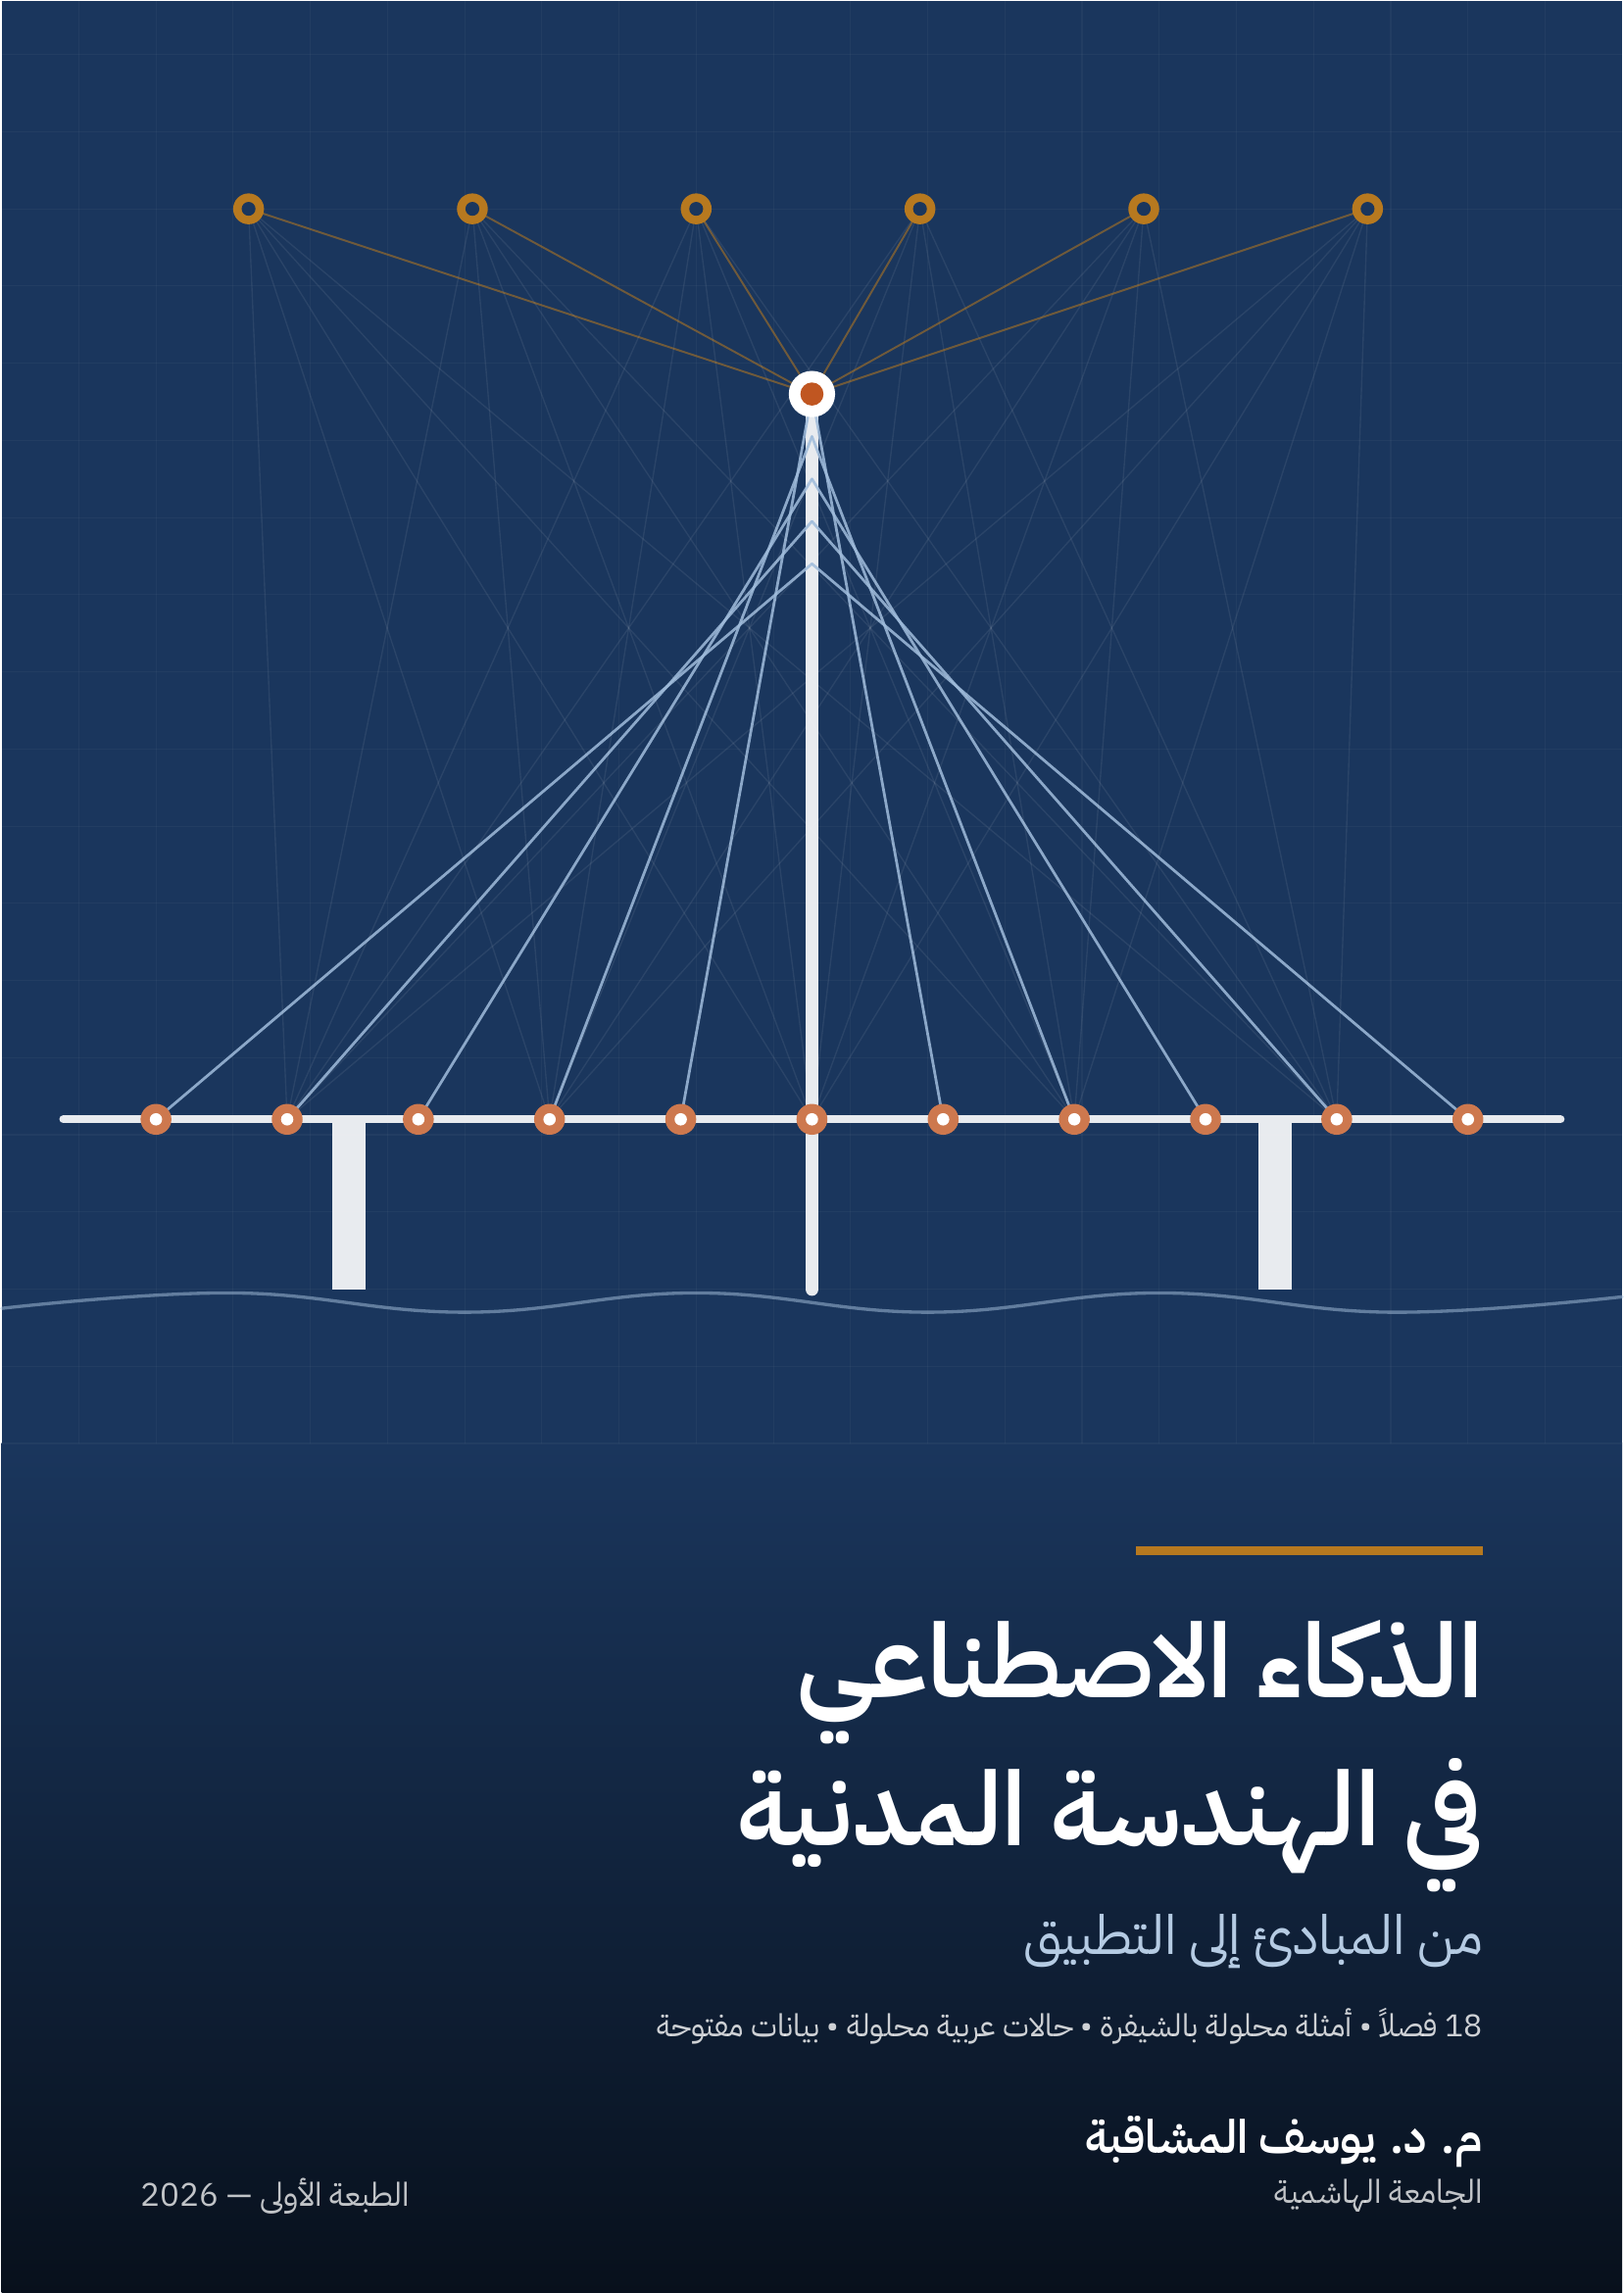
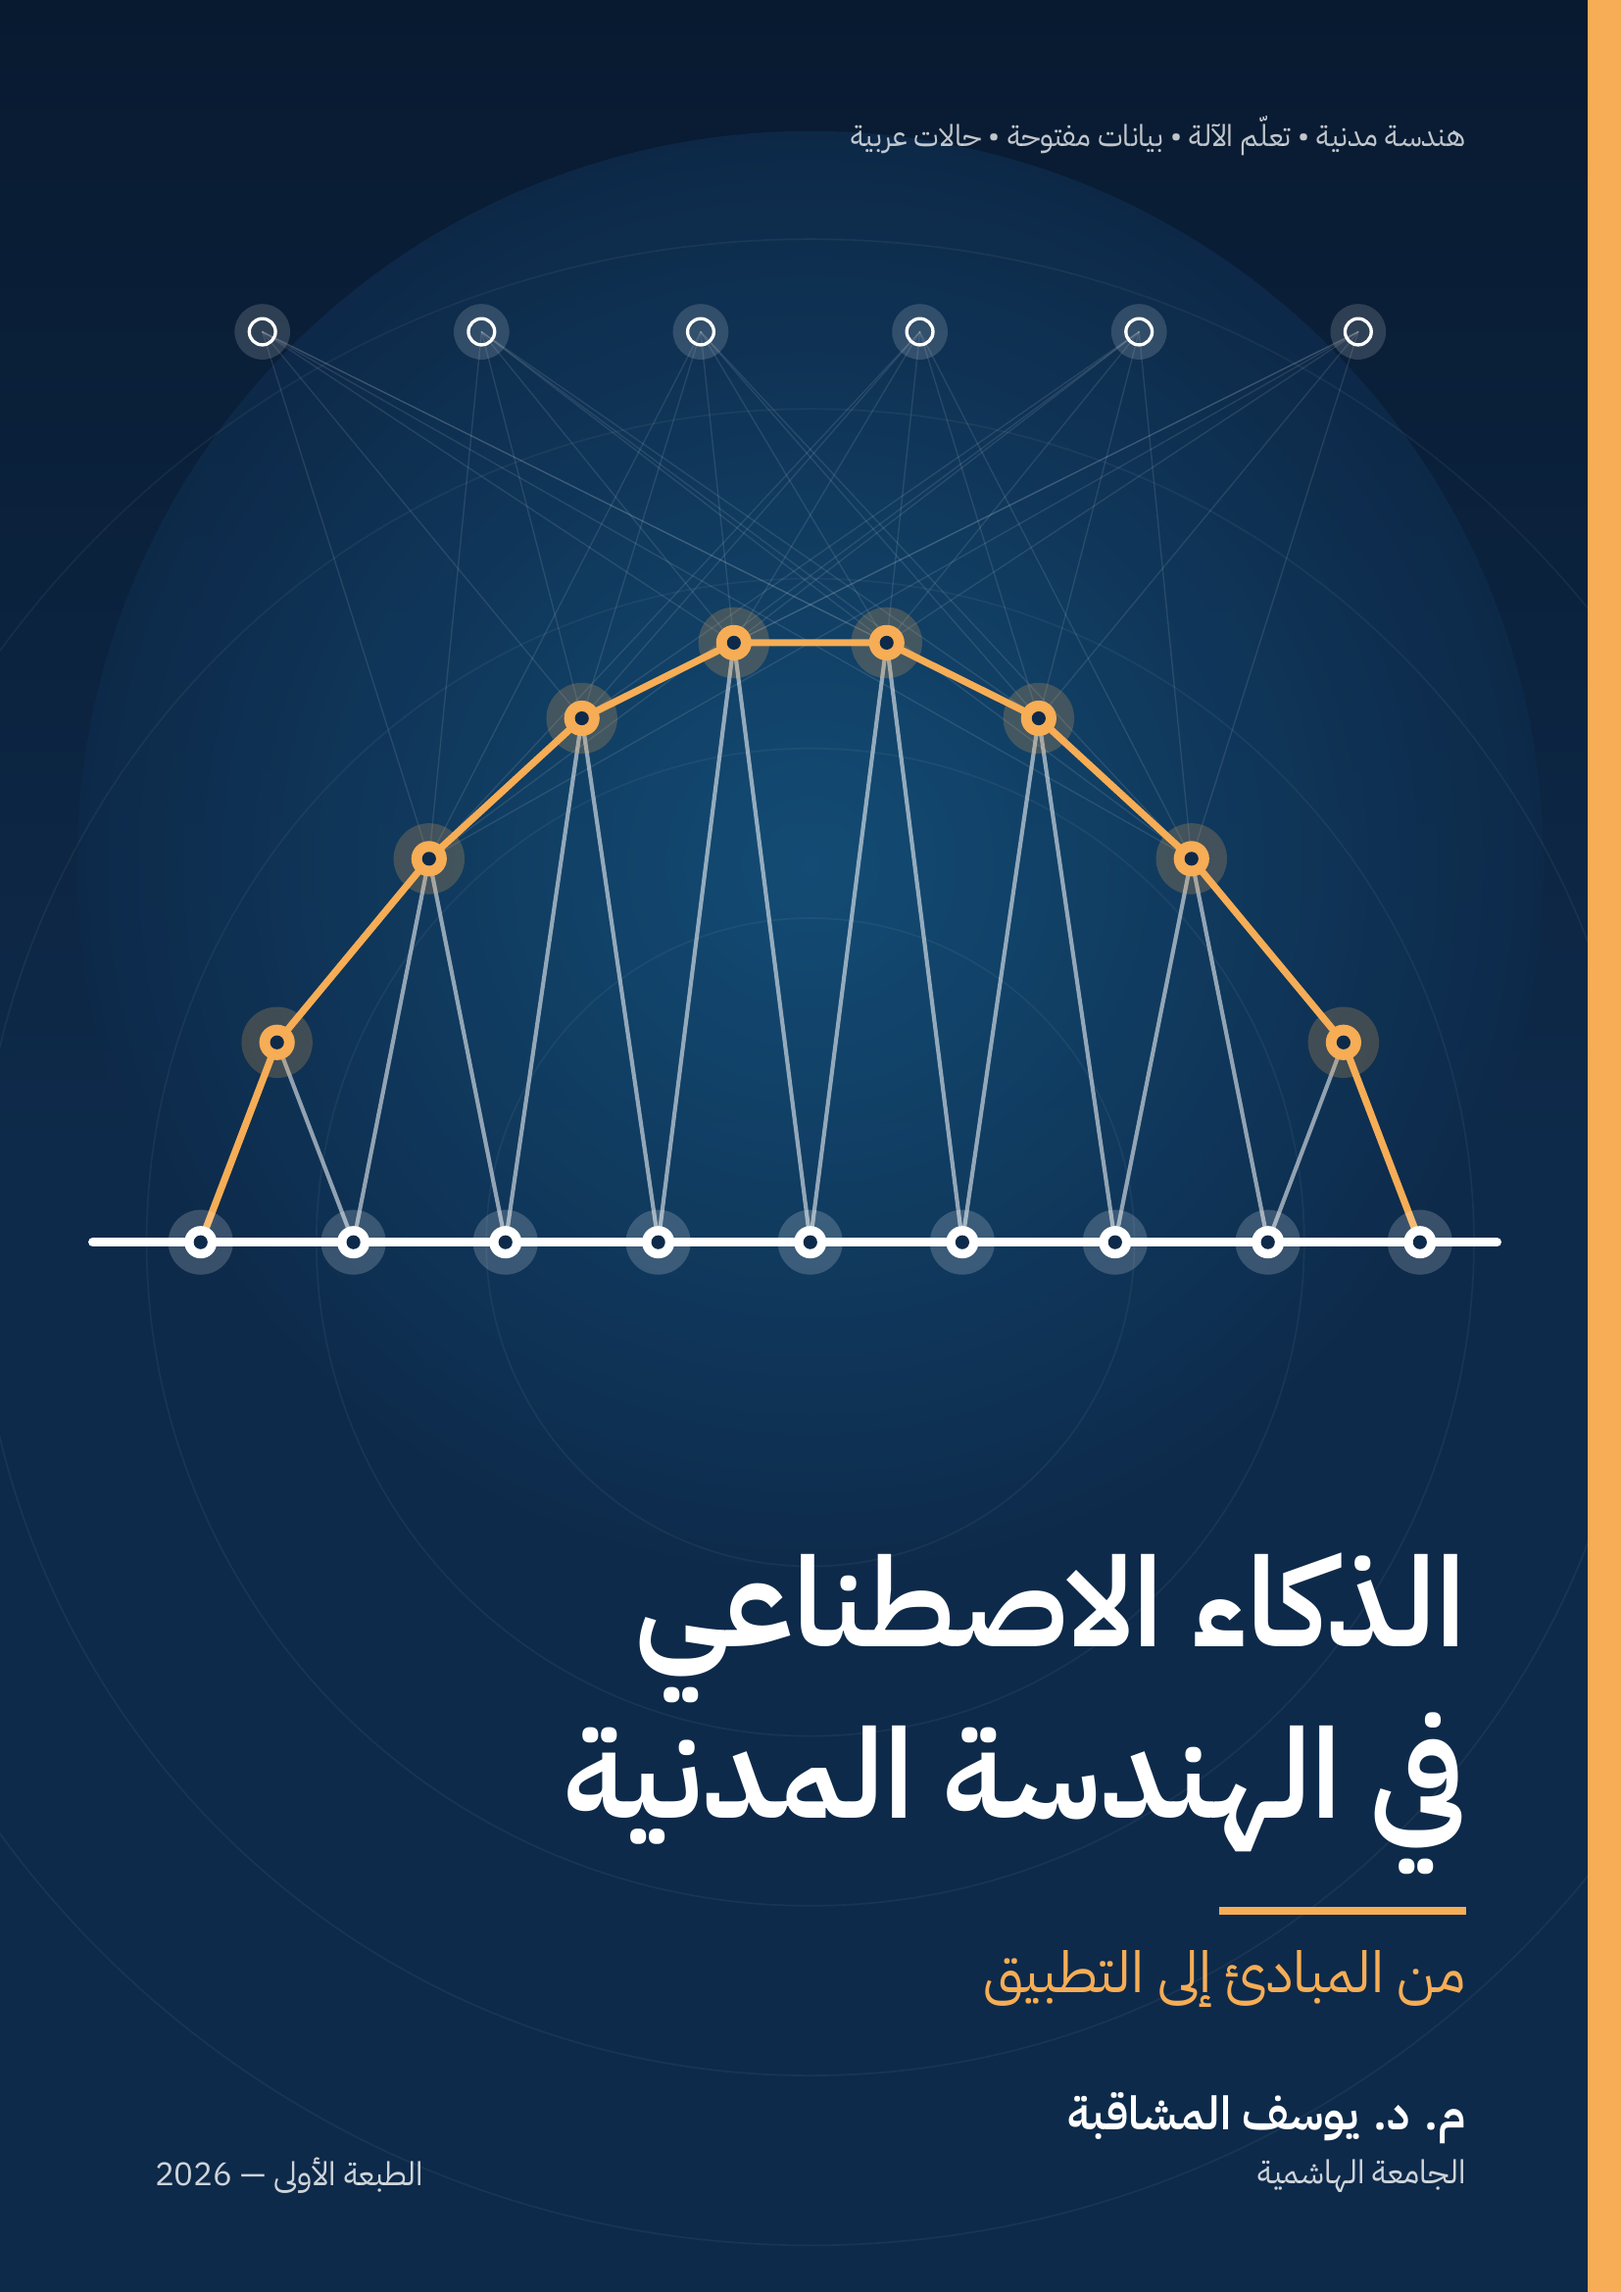
New cover design and light alternative; TikZ source

diff --git a/code/design/tikz/cover2.py b/code/design/tikz/cover2.py
@@ -1,0 +1,69 @@
+# -*- coding: utf-8 -*-
+"""Modern front covers (A4 proportion): dark 'network arch' and light 'dot matrix' variants."""
+from tk import *
+import tk, math
+tk.PRE = tk.PRE.replace("border=7pt", "border=0pt")
+tk.COL.update(ink0="081A30", deep="0E2A4A", sea="14507A", amber="F6AD55", mist="F4F7FA", steel="A0AEC0")
+W, H = 21.0, 29.7
+def arch_nodes(x0=2.6, x1=18.4, yb=13.6, rise=6.6, n=9):
+    bot = [(x0 + i*(x1-x0)/(n-1), yb) for i in range(n)]
+    top = []
+    for i in range(n-1):
+        xm = (bot[i][0] + bot[i+1][0])/2; t = (xm - x0)/(x1 - x0)
+        top.append((xm, yb + 1.3 + rise*math.sin(math.pi*t)))
+    return bot, top
+def titles(f, col_title, col_sub, col_txt, y0=8.6):
+    xr = W - 2.0
+    f.add(r"\node[anchor=east,text=%s,font=\fontsize{46}{56}\selectfont\bfseries,inner sep=0pt] at (%.2f,%.2f) {%s};" % (col_title, xr, y0, R("الذكاء الاصطناعي")))
+    f.add(r"\node[anchor=east,text=%s,font=\fontsize{46}{56}\selectfont\bfseries,inner sep=0pt] at (%.2f,%.2f) {%s};" % (col_title, xr, y0 - 2.15, R("في الهندسة المدنية")))
+    f.add(r"\fill[%s] (%.2f,%.2f) rectangle (%.2f,%.2f);" % (col_sub, xr - 3.2, y0 - 3.72, xr, y0 - 3.62))
+    f.add(r"\node[anchor=east,text=%s,font=\fontsize{21}{26}\selectfont,inner sep=0pt] at (%.2f,%.2f) {%s};" % (col_sub, xr, y0 - 4.55, R("من المبادئ إلى التطبيق")))
+    f.add(r"\node[anchor=east,text=%s,font=\fontsize{17}{22}\selectfont\bfseries,inner sep=0pt] at (%.2f,2.25) {%s};" % (col_txt, xr, R("م. د. يوسف المشاقبة")))
+    f.add(r"\node[anchor=east,text=%s,opacity=0.8,font=\fontsize{12}{15}\selectfont,inner sep=0pt] at (%.2f,1.5) {%s};" % (col_txt, xr, R("الجامعة الهاشمية")))
+    f.add(r"\node[anchor=west,text=%s,opacity=0.8,font=\fontsize{12}{15}\selectfont,inner sep=0pt] at (2.0,1.5) {%s};" % (col_txt, R("الطبعة الأولى — 2026")))
+def cover_dark():
+    f = Fig("cover"); bot, top = arch_nodes()
+    f.add(r"\shade[top color=ink0,bottom color=deep,middle color=deep] (0,0) rectangle (%.1f,%.1f);" % (W, H))
+    f.add(r"\shade[inner color=sea,outer color=deep,opacity=0.9] (10.5,18.5) circle (9.5);")
+    f.add(r"\begin{scope}\clip (0,0) rectangle (%.1f,%.1f);" % (W, H))
+    for r_ in (4.2, 6.4, 8.6, 10.8, 13.0): f.add(r"\draw[white,opacity=0.05,line width=0.6pt] (10.5,13.6) circle (%.1f);" % r_)
+    f.add(r"\end{scope}")
+    f.add(r"\fill[amber] (%.2f,0) rectangle (%.1f,%.1f);" % (W - 0.42, W, H))
+    # input layer above the arch
+    inp = [(3.4 + i*2.84, 25.4) for i in range(6)]
+    for ix, iy in inp:
+        for tx, ty in top[1:-1]:
+            f.add(r"\draw[white,opacity=0.10,line width=0.5pt] (%.2f,%.2f) -- (%.2f,%.2f);" % (ix, iy, tx, ty))
+    lw = "line width=1.5pt,line cap=round"
+    for i in range(len(top)):
+        f.add(r"\draw[white,opacity=0.55,%s] (%.2f,%.2f) -- (%.2f,%.2f) -- (%.2f,%.2f);" % (lw, bot[i][0], bot[i][1], top[i][0], top[i][1], bot[i+1][0], bot[i+1][1]))
+    f.add(r"\draw[amber,line width=2.6pt,line cap=round,line join=round] " + " -- ".join("(%.2f,%.2f)" % p for p in [bot[0]] + top + [bot[-1]]) + ";")
+    f.add(r"\draw[white,line width=3.2pt,line cap=round] (1.2,%.2f) -- (%.2f,%.2f);" % (bot[0][1], W - 1.6, bot[0][1]))
+    for x, y in bot: f.add(r"\fill[white,opacity=0.18] (%.2f,%.2f) circle (0.42); \fill[white] (%.2f,%.2f) circle (0.21); \fill[deep] (%.2f,%.2f) circle (0.09);" % (x, y, x, y, x, y))
+    for x, y in top: f.add(r"\fill[amber,opacity=0.22] (%.2f,%.2f) circle (0.46); \fill[amber] (%.2f,%.2f) circle (0.23); \fill[deep] (%.2f,%.2f) circle (0.09);" % (x, y, x, y, x, y))
+    for x, y in inp: f.add(r"\fill[white,opacity=0.15] (%.2f,%.2f) circle (0.36); \draw[white,line width=1.2pt] (%.2f,%.2f) circle (0.17);" % (x, y, x, y))
+    f.add(r"\node[anchor=north east,text=white,opacity=0.75,font=\fontsize{11}{14}\selectfont,inner sep=0pt] at (%.2f,%.2f) {%s};" % (W - 2.0, H - 1.5, R("هندسة مدنية  •  تعلّم الآلة  •  بيانات مفتوحة  •  حالات عربية")))
+    titles(f, "white", "amber", "white")
+    f.add(r"\path[use as bounding box] (0,0) rectangle (%.1f,%.1f);" % (W, H)); f.build(dpi=200)
+def cover_light():
+    f = Fig("cover_alt"); bot, top = arch_nodes(yb=15.2, rise=6.0)
+    f.add(r"\fill[mist] (0,0) rectangle (%.1f,%.1f);" % (W, H))
+    f.add(r"\fill[navy] (0,0) rectangle (%.1f,3.6);" % W)
+    f.add(r"\fill[orange] (%.2f,3.6) rectangle (%.1f,%.1f);" % (W - 0.42, W, H))
+    pts = bot + top
+    for i in range(27):
+        for j in range(19):
+            x, y = 1.6 + i*0.68, 13.2 + j*0.68
+            d = min(math.hypot(x - a, y - b) for a, b in pts)
+            if d < 0.45: continue
+            f.add(r"\fill[steel,opacity=%.2f] (%.2f,%.2f) circle (0.045);" % (0.75 if d > 1.2 else 0.3, x, y))
+    for i in range(len(top)):
+        f.add(r"\draw[blue,line width=1.4pt,line cap=round,line join=round] (%.2f,%.2f) -- (%.2f,%.2f) -- (%.2f,%.2f);" % (bot[i][0], bot[i][1], top[i][0], top[i][1], bot[i+1][0], bot[i+1][1]))
+    f.add(r"\draw[orange,line width=2.6pt,line cap=round,line join=round] " + " -- ".join("(%.2f,%.2f)" % p for p in [bot[0]] + top + [bot[-1]]) + ";")
+    f.add(r"\draw[navy,line width=3.2pt,line cap=round] (1.4,%.2f) -- (%.2f,%.2f);" % (bot[0][1], W - 1.8, bot[0][1]))
+    for x, y in bot: f.add(r"\fill[navy] (%.2f,%.2f) circle (0.22); \fill[mist] (%.2f,%.2f) circle (0.09);" % (x, y, x, y))
+    for x, y in top: f.add(r"\fill[orange] (%.2f,%.2f) circle (0.24); \fill[mist] (%.2f,%.2f) circle (0.09);" % (x, y, x, y))
+    f.add(r"\node[anchor=north east,text=slate,font=\fontsize{11}{14}\selectfont,inner sep=0pt] at (%.2f,%.2f) {%s};" % (W - 2.0, H - 1.5, R("هندسة مدنية  •  تعلّم الآلة  •  بيانات مفتوحة  •  حالات عربية")))
+    titles(f, "navy", "orange", "white", y0=10.6)
+    f.add(r"\path[use as bounding box] (0,0) rectangle (%.1f,%.1f);" % (W, H)); f.build(dpi=200)
+if __name__ == "__main__": cover_dark(); cover_light()

diff --git a/code/design/tikz/README.md b/code/design/tikz/README.md
@@ -10,3 +10,5 @@ Requirements: XeLaTeX with TikZ, `pdftoppm`, and the IBM Plex Sans Arabic fonts 
 
     BOOK_FONTS=/path/to/fonts BOOK_FIG_OUT=../../../figures python3 figs_flow.py
     BOOK_FONTS=/path/to/fonts BOOK_FIG_OUT=../../../figures python3 figs_tech.py
+
+- `cover2.py` — the current cover (`cover.png`) and a light alternative (`cover_alt.png`); `cover.py` is the earlier design.
